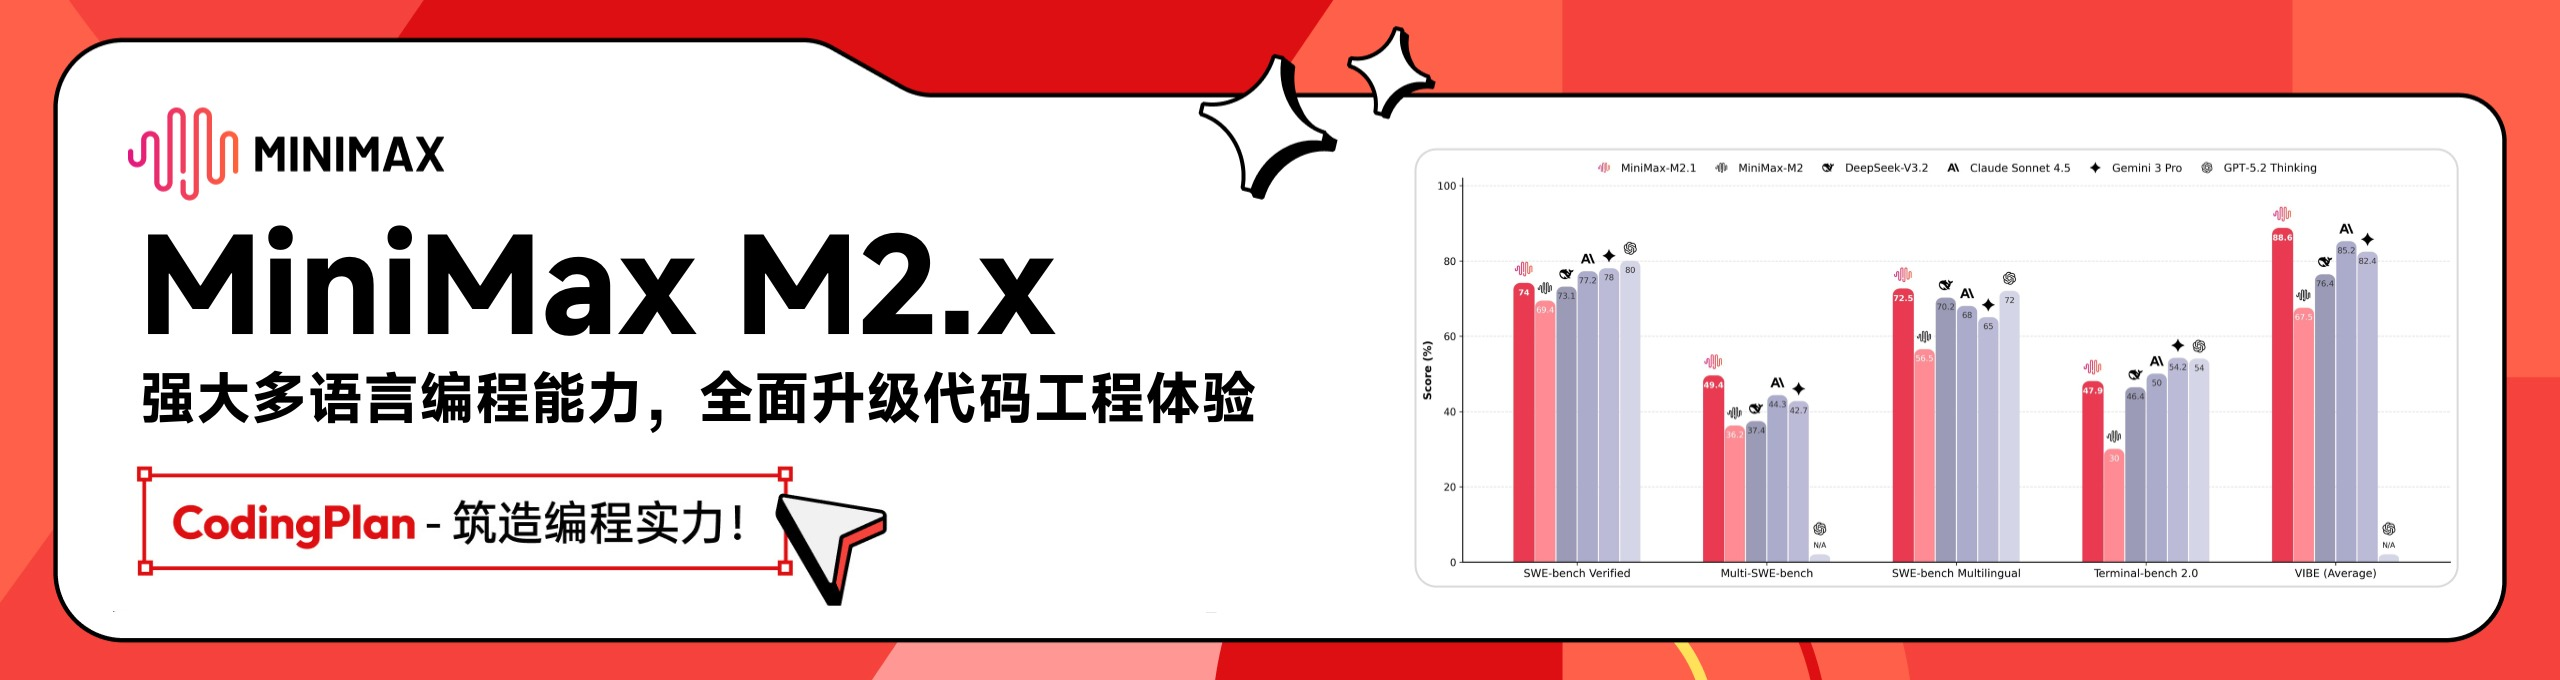
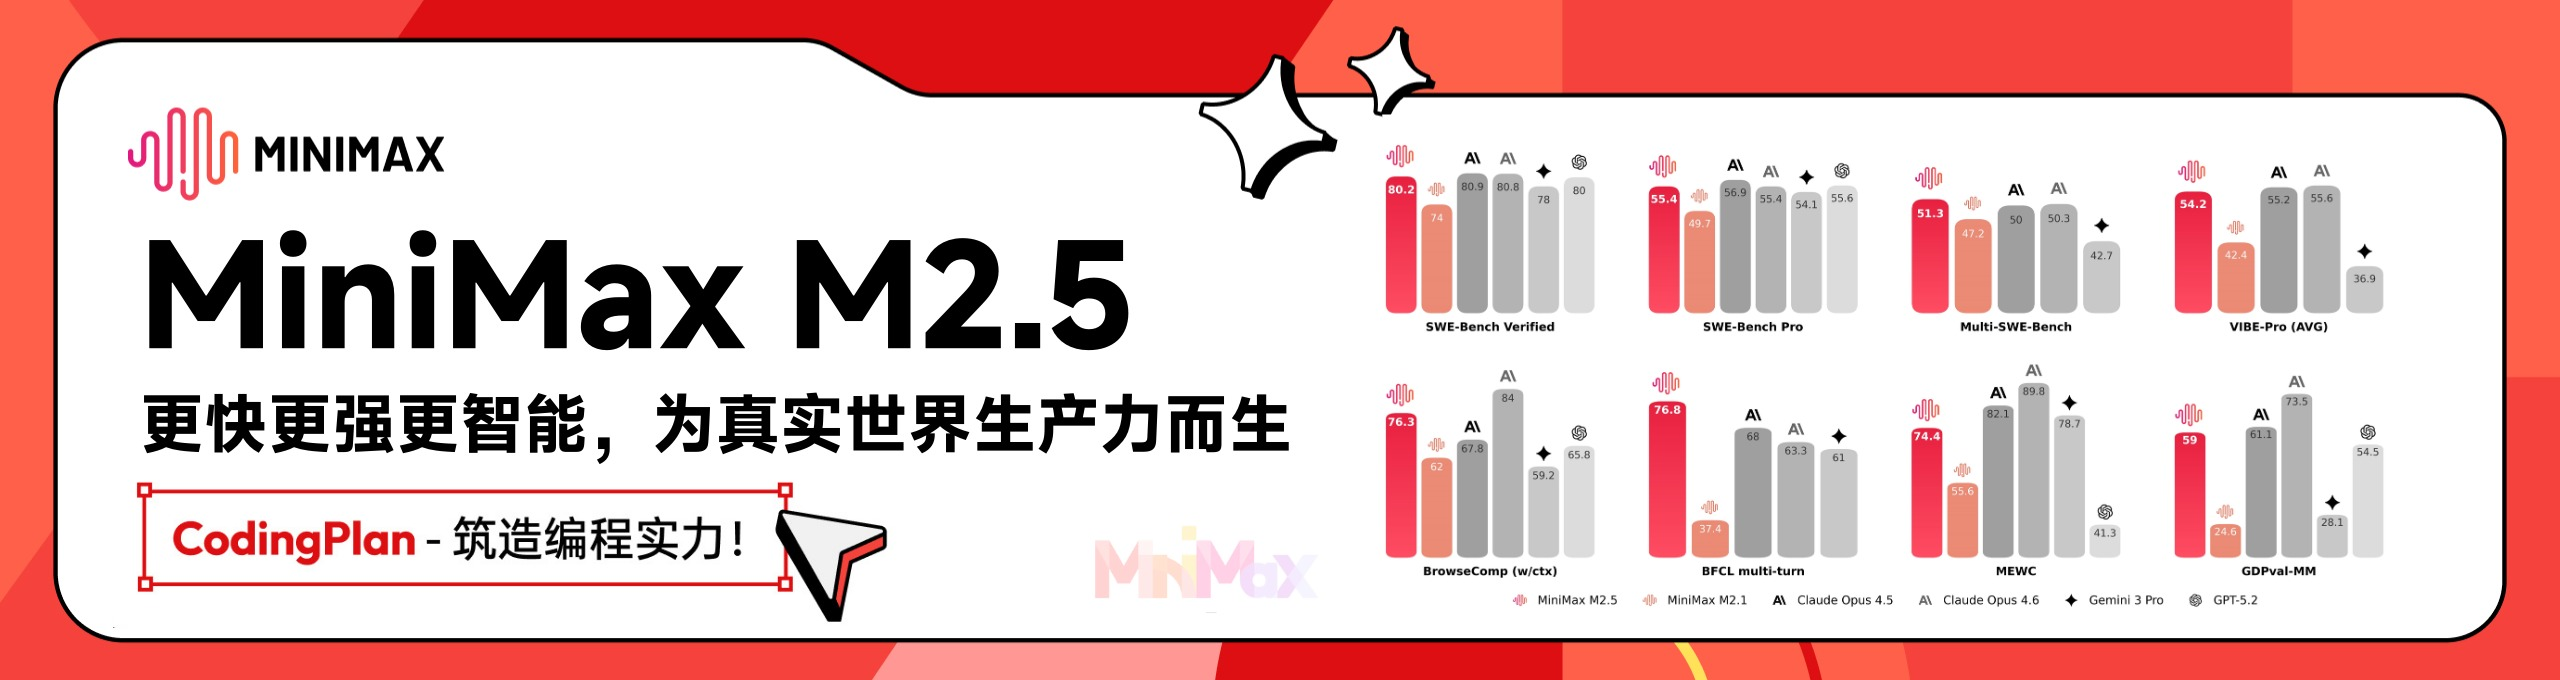
docs: update MiniMax sponsor to M2.5 across all READMEs

Changed region(s): [[0.5312, 0.2162, 0.9375, 0.8956], [0.0312, 0.3397, 0.5, 0.9265], [0.4062, 0.7721, 0.5, 0.8956]]

diff --git a/README_JA.md b/README_JA.md
@@ -15,11 +15,11 @@
 
 ## ❤スポンサー
 
-[![MiniMax](assets/partners/banners/minimax-en.jpg)](https://bit.ly/3Nue8mA)
+[![MiniMax](assets/partners/banners/minimax-en.jpeg)](https://platform.minimax.io/subscribe/coding-plan?code=ClLhgxr2je&source=link)
 
-MiniMax M2.1 は、実務開発とエージェントワークフロー向けに構築されたオープンソースの最先端モデルです。100 億のアクティブパラメータ / 2,300 億の総パラメータを持つ MoE アーキテクチャにより、高速な推論、簡単なデプロイ、ローカル実行にも対応します。SWE、VIBE、Multi-SWE などの主要コーディングベンチマークでトップクラスの性能を発揮し、コーディング、デジタル環境のナビゲーション、大規模な多段階タスクの処理に優れています。
+MiniMax-M2.5 は、実際の生産性向上のために設計された最先端の大規模言語モデルです。多様で複雑な実環境のデジタルワークスペースでトレーニングされた M2.5 は、M2.1 のコーディング能力をベースに一般的なオフィス業務へと拡張し、Word・Excel・PowerPoint ファイルの生成と操作、多様なソフトウェア環境間のコンテキスト切り替え、異なるエージェントや人間チーム間での協働を流暢にこなします。SWE-Bench Verified で 80.2%、Multi-SWE-Bench で 51.3%、BrowseComp で 76.3% を達成し、計画的な行動と出力の最適化トレーニングにより、前世代よりもトークン効率に優れています。
 
-[こちら](https://bit.ly/3Nue8mA)から MiniMax Coding Plan の限定 12% オフを入手！
+[こちら](https://platform.minimax.io/subscribe/coding-plan?code=ClLhgxr2je&source=link)から MiniMax Coding Plan の限定 12% オフを入手！
 
 ---
 

diff --git a/README.md b/README.md
@@ -15,11 +15,11 @@ English | [中文](README_ZH.md) | [日本語](README_JA.md) | [Changelog](CHANG
 
 ## ❤Sponsor
 
-[![MiniMax](assets/partners/banners/minimax-en.jpg)](https://bit.ly/3Nue8mA)
+[![MiniMax](assets/partners/banners/minimax-en.jpeg)](https://platform.minimax.io/subscribe/coding-plan?code=ClLhgxr2je&source=link)
 
-MiniMax M2.1 is an open-source, SOTA model built for real-world development and agentic workflows. It delivers top-tier performance on major coding benchmarks such as SWE, VIBE, and Multi-SWE. Powered by a 10B active / 230B total MoE architecture, M2.1 enables faster inference, easier deployment, and even local execution. It excels at coding, navigating digital environments, and handling long, multi-step tasks at scale.
+MiniMax-M2.5 is a SOTA large language model designed for real-world productivity. Trained in a diverse range of complex real-world digital working environments, M2.5 builds upon the coding expertise of M2.1 to extend into general office work, reaching fluency in generating and operating Word, Excel, and Powerpoint files, context switching between diverse software environments, and working across different agent and human teams. Scoring 80.2% on SWE-Bench Verified, 51.3% on Multi-SWE-Bench, and 76.3% on BrowseComp, M2.5 is also more token efficient than previous generations, having been trained to optimize its actions and output through planning.
 
-[Click](https://bit.ly/3Nue8mA) to get an exclusive 12% off the MiniMax Coding Plan!
+[Click](https://platform.minimax.io/subscribe/coding-plan?code=ClLhgxr2je&source=link) to get an exclusive 12% off the MiniMax Coding Plan!
 
 ---
 

diff --git a/README_ZH.md b/README_ZH.md
@@ -17,7 +17,7 @@
 
 [![MiniMax](assets/partners/banners/minimax-zh.jpeg)](https://platform.minimaxi.com/subscribe/coding-plan?code=7kYF2VoaCn&source=link)
 
-MiniMax M2.x 系列模型是面向实际开发与智能体工作流打造的编码模型，M2.1 基于 100 亿激活 / 2300 亿总参的混合专家架构打造，推理更快、部署更便捷且支持本地运行，在 SWE、VIBE、Multi-SWE 等主流代码评测基准中均表现顶尖，擅长代码开发、数字环境适配及规模化处理长链路多步骤任务。
+MiniMax M2.5 在编程、工具调用与搜索、办公等核心生产力场景均达到或刷新行业 SOTA，拥有架构师级代码能力与高效任务拆解能力，推理速度较上一代提升 37%、token 消耗更优；100 token/s 连续工作一小时仅需 1 美金，让复杂 Agent 规模化部署经济可行，已在企业多职能场景深度落地，加速全民 Agent 时代到来。
 
 [点击](https://platform.minimaxi.com/subscribe/coding-plan?code=7kYF2VoaCn&source=link)即可领取 MiniMax Coding Plan 专属 88 折优惠！
 
